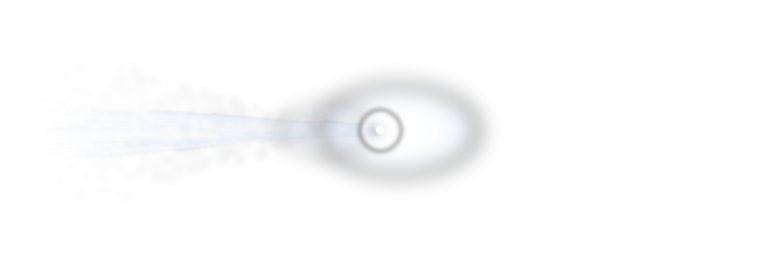
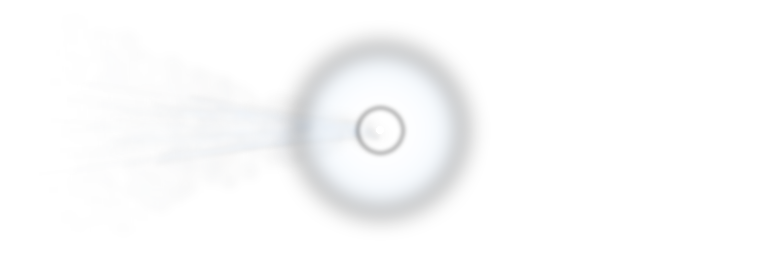
Make cursor comet head circular instead of elongated
Round symmetric coma with a wide soft dust fan reads as a comet, not
an elongated streak.

Changed region(s): [[0.3632, 0.1231, 0.6053, 0.8615], [0.575, 0.4308, 0.6355, 0.5538]]

diff --git a/brawl-stars.html b/brawl-stars.html
@@ -5,7 +5,7 @@
   <meta name="viewport" content="width=device-width,initial-scale=1">
   <meta name="description" content="Luke Y. Xia's Brawl Stars progress, ranked goals, trophy logs, and hall of fame screenshots.">
   <title>Brawl Stars — Luke Y. Xia</title>
-  <link rel="stylesheet" href="styles.css?v=20260627c">
+  <link rel="stylesheet" href="styles.css?v=20260627g">
 </head>
 <body class="brawl-tracker-page starfield-page">
   <canvas id="starfield" aria-hidden="true"></canvas>
@@ -117,7 +117,7 @@
   </main>
 
   <footer class="footer"><div class="shell"><div class="footer-bottom"><span>© 2026 Luke Y. Xia</span><span>Unofficial Brawl Stars tracker.</span></div></div></footer>
-  <script src="script.js?v=20260627f"></script>
+  <script src="script.js?v=20260627g"></script>
   <script src="brawl-data.js?v=20260626l"></script>
   <script src="brawl-tracker.js?v=20260626q"></script>
 </body>

diff --git a/clash-of-clans.html b/clash-of-clans.html
@@ -3,7 +3,7 @@
 <head>
   <meta charset="UTF-8"><meta name="viewport" content="width=device-width,initial-scale=1">
   <meta name="description" content="Luke Y. Xia's Clash of Clans accounts, rankings, activity, and upgrade progress.">
-  <title>Clash of Clans Tracker — Luke Y. Xia</title><link rel="stylesheet" href="styles.css?v=20260627c">
+  <title>Clash of Clans Tracker — Luke Y. Xia</title><link rel="stylesheet" href="styles.css?v=20260627g">
 </head>
 <body class="coc-tracker-page starfield-page">
   <canvas id="starfield" aria-hidden="true"></canvas>
@@ -82,7 +82,7 @@
 
   <footer class="footer"><div class="shell"><div class="footer-bottom"><span>© 2026 Luke Y. Xia</span><span>Unofficial Clash of Clans tracker.</span></div></div></footer>
   <script src="coc-data.js?v=20260626l"></script>
-  <script src="script.js?v=20260627f"></script>
+  <script src="script.js?v=20260627g"></script>
   <script src="coc-tracker.js?v=20260626l"></script>
 </body>
 </html>

diff --git a/clash-royale.html b/clash-royale.html
@@ -5,7 +5,7 @@
   <meta name="viewport" content="width=device-width,initial-scale=1">
   <meta name="description" content="My Clash Royale account, trophy history, and seven-year deck commitment.">
   <title>Clash Royale — Luke Y. Xia</title>
-  <link rel="stylesheet" href="styles.css?v=20260627c">
+  <link rel="stylesheet" href="styles.css?v=20260627g">
 </head>
 <body class="royale-tracker-page starfield-page">
   <canvas id="starfield" aria-hidden="true"></canvas>
@@ -77,7 +77,7 @@
   </main>
 
   <footer class="footer"><div class="shell"><div class="footer-bottom"><span>© 2026 Luke Y. Xia</span><span>Unofficial Clash Royale tracker.</span></div></div></footer>
-  <script src="script.js?v=20260627f"></script>
+  <script src="script.js?v=20260627g"></script>
   <script src="royale-data.js?v=20260626l"></script>
   <script src="royale-tracker.js?v=20260626l"></script>
 </body>

diff --git a/index.html b/index.html
@@ -3,7 +3,7 @@
 <head>
   <meta charset="UTF-8"><meta name="viewport" content="width=device-width,initial-scale=1">
   <meta name="description" content="About a physics PhD researcher, their work, interests, and occasional side quests.">
-  <title>About — Luke Y. Xia</title><link rel="stylesheet" href="styles.css?v=20260627c">
+  <title>About — Luke Y. Xia</title><link rel="stylesheet" href="styles.css?v=20260627g">
 </head>
 <body class="about-page">
   <canvas id="starfield" aria-hidden="true"></canvas>
@@ -58,5 +58,5 @@
       <p class="friends-note">My best friends in physics are <a href="https://ps.uci.edu/news/a-friendship-forged-in-physics-and-math-leads-two-uc-irvine-students-to-stanford-university/" target="_blank" rel="noopener">Vincent Caudillo</a>, <a href="https://herschel.uci.edu/lab-members/" target="_blank" rel="noopener">James Buda</a>, and <a href="https://www.linkedin.com/in/marcocheng485" target="_blank" rel="noopener">Marco Cheng</a>. Check them out too!</p>
     </div></section>
   </main>
-  <script src="script.js?v=20260627f"></script>
+  <script src="script.js?v=20260627g"></script>
 </body></html>

diff --git a/research.html b/research.html
@@ -5,7 +5,7 @@
   <meta name="viewport" content="width=device-width,initial-scale=1">
   <meta name="description" content="Research projects from Luke Y. Xia.">
   <title>Research — Luke Y. Xia</title>
-  <link rel="stylesheet" href="styles.css?v=20260627c">
+  <link rel="stylesheet" href="styles.css?v=20260627g">
 </head>
 <body class="research-page starfield-page">
   <canvas id="starfield" aria-hidden="true"></canvas>
@@ -139,6 +139,6 @@
   </main>
 
   <footer class="footer"><div class="shell"><div class="footer-bottom"><span>© 2026 Luke Y. Xia</span><span>Research notes, updated as the work evolves.</span></div></div></footer>
-  <script src="script.js?v=20260627f"></script>
+  <script src="script.js?v=20260627g"></script>
 </body>
 </html>

diff --git a/resources.html b/resources.html
@@ -3,7 +3,7 @@
 <head>
   <meta charset="UTF-8"><meta name="viewport" content="width=device-width,initial-scale=1">
   <meta name="description" content="Application feedback and informal coffee chats with Luke Y. Xia.">
-  <title>Resources — Luke Y. Xia</title><link rel="stylesheet" href="styles.css?v=20260627c">
+  <title>Resources — Luke Y. Xia</title><link rel="stylesheet" href="styles.css?v=20260627g">
 </head>
 <body class="simple-resource-page starfield-page">
   <canvas id="starfield" aria-hidden="true"></canvas>
@@ -47,6 +47,6 @@
       </div>
     </section>
   </main>
-  <script src="script.js?v=20260627f"></script>
+  <script src="script.js?v=20260627g"></script>
 </body>
 </html>